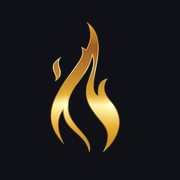
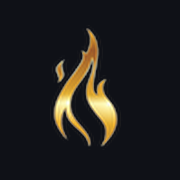
Remove barra Cliente, migra clients->clientes_base e ajusta icones/mobile
- Remove a barra de filtro Cliente (rest-bar) de todas as telas via CSS+HTML+JS kill switch
- Para de escrever na colecao Firestore 'clients' em _pushToCloud
- Remove o listener da colecao 'clients' e a migracao legacy
- Adiciona _rebuildClientsFromBD: variavel local 'clients' deriva de clientes_base
- setClientColor/setClientLogoFile agora gravam direto em clientes_base
- Regenera icones PWA com fundo solido escuro (#0f1117) — fim do tile roxo
- Mobile: traz de volta os botoes 🏢/🌙/⚙ no header em formato compacto
- Bump SW v2.3.0 pra invalidar cache

Changed region(s): [[0.2778, 0.1111, 0.6667, 0.8611]]

diff --git a/index.html b/index.html
@@ -5,6 +5,8 @@
 <meta name="viewport" content="width=device-width, initial-scale=1.0, viewport-fit=cover">
 <title>Fogo & Gestão — Sistema integrado de gestão de publicidade</title>
 <link rel="stylesheet" href="styles.css">
+<!-- Inline kill-switch para a barra global Cliente (caso CSS antigo esteja em cache) -->
+<style id="killRestBar">.rest-bar,#restBar{display:none!important;visibility:hidden!important;height:0!important;overflow:hidden!important;}</style>
 <!-- PWA -->
 <link rel="manifest" href="manifest.webmanifest">
 <meta name="theme-color" content="#0f1117">
@@ -36,6 +38,20 @@
   <script async defer src="https://connect.facebook.net/pt_BR/sdk.js"></script>
 </head>
 <body>
+<script>
+  // Remove a barra global de Cliente em runtime (caso HTML antigo venha do cache)
+  (function killRestBar(){
+    const tryKill = () => {
+      const el = document.getElementById('restBar');
+      if (el) el.remove();
+      document.querySelectorAll('.rest-bar').forEach(n => n.remove());
+    };
+    tryKill();
+    document.addEventListener('DOMContentLoaded', tryKill);
+    // observa caso algum script tente reinjetar
+    new MutationObserver(tryKill).observe(document.documentElement, {childList:true, subtree:true});
+  })();
+</script>
 
 <!-- LOGIN SCREEN -->
 <div class="login-screen" id="loginScreen">
@@ -400,19 +416,11 @@ Quando foi a última vez que você saiu sem querer voltar?"></textarea>
   </div>
 </div>
 
-<!-- RESTAURANT BAR -->
-<div class="rest-bar" id="restBar">
-  <span class="rest-bar-label">Cliente</span>
-  <div style="position:relative;">
-    <button class="rest-selector-btn" id="restSelectorBtn" onclick="toggleRestDropdown()">
-      <span id="restSelectorLabel">Todos os clientes</span>
-      <svg width="12" height="12" viewBox="0 0 12 12" fill="none" stroke="currentColor" stroke-width="1.8" stroke-linecap="round"><polyline points="2 4 6 8 10 4"/></svg>
-    </button>
-    <div class="rest-dropdown" id="restDropdown"></div>
-  </div>
-  <div class="rest-bar-actions">
-    <button class="btn-data" onclick="openAiConfig()" title="Treinar estilo da IA">🧠 IA</button>
-  </div>
+<!-- RESTAURANT BAR removida — fonte única de clientes é a aba Banco de Dados.
+     Mantemos um stub oculto pra preservar referências de scripts (#restBar, #restSelectorLabel, #restDropdown). -->
+<div class="rest-bar" id="restBar" style="display:none !important" aria-hidden="true">
+  <span id="restSelectorLabel" style="display:none"></span>
+  <div id="restDropdown" style="display:none"></div>
 </div>
 
 <!-- TOASTS -->
@@ -3074,25 +3082,8 @@ async function _pushToCloud() {
       batch.delete(_db.collection('posts').doc(id));
     });
     _deletedPostIds.clear();
-    // Clients → coleção `clients` (uma doc por cliente). Resolve limite de 1MB.
-    // Skip logos > 700KB para caber no doc.
-    Object.values(clients).forEach(c => {
-      if (!c || !c.id) return;
-      const data = { id: c.id, name: c.name || '' };
-      if (c.color) data.color = c.color;
-      if (c.logo && typeof c.logo === 'string' && c.logo.length < 700 * 1024) data.logo = c.logo;
-      ['phone','instagram','notes','segment','priority','address','website','email'].forEach(f => {
-        if (c[f] != null && c[f] !== '') data[f] = c[f];
-      });
-      data.createdAt = c.createdAt || Date.now();
-      data.updatedAt = Date.now();
-      if (c.createdBy) data.createdBy = c.createdBy;
-      batch.set(_db.collection('clients').doc(c.id), data);
-    });
-    // Apply deletions
-    _deletedClientIds.forEach(id => {
-      batch.delete(_db.collection('clients').doc(id));
-    });
+    // Clientes: fonte única é a coleção `clientes_base` (módulo Banco de Dados).
+    // Não escrevemos mais em `clients` — apenas drenamos a fila de deletados legacy.
     _deletedClientIds.clear();
     await batch.commit();
     setSyncStatus('ok');
@@ -3152,25 +3143,9 @@ async function loadFromCloud() {
       setSyncStatus('ok');
       try { renderAll(); } catch(_) {}
     }, e => { console.warn('Posts listener error:', e); setSyncStatus('err'); });
-    // ── Realtime listener: clients (coleção `clients`, uma doc por cliente) ──
-    if (_clientsUnsub) { try { _clientsUnsub(); } catch(_) {} }
-    // Migra doc legado uma vez (assíncrono — listener pega o resultado)
-    _migrateLegacyClientsDoc();
-    _clientsUnsub = _db.collection('clients').onSnapshot(snap => {
-      const cloudClients = {};
-      snap.docs.forEach(d => {
-        const data = d.data() || {};
-        const name = data.name || d.id;
-        cloudClients[name] = { ...data, id: data.id || d.id, name };
-      });
-      // Preserva logos grandes só locais (não cabem no Firestore)
-      Object.entries(clients).forEach(([k, v]) => {
-        if (cloudClients[k] && v?.logo && !cloudClients[k].logo) cloudClients[k].logo = v.logo;
-      });
-      clients = cloudClients;
-      try { localStorage.setItem('roteiros_clients', JSON.stringify(clients)); } catch(_) {}
-      try { renderRestaurantChips(); renderCalendar(); populateRestauranteSelect(document.getElementById('restaurante')?.value || ''); } catch(_) {}
-    }, e => { console.warn('Clients listener error:', e); });
+    // Coleção legacy `clients` foi descontinuada — fonte única é `clientes_base`.
+    // O hook onClientesBaseChanged reconstrói a variável local `clients` a partir do BD.
+    if (_clientsUnsub) { try { _clientsUnsub(); _clientsUnsub = null; } catch(_) {} }
   } catch(e) { console.warn('Firestore load failed, using localStorage:', e); setSyncStatus('err'); }
 }
 
@@ -3200,19 +3175,45 @@ function getClientLogo(name) {
   // Fallback: sistema legado
   return clients[name]?.logo || null;
 }
-function setClientColor(name, color) {
-  if (!clients[name]) clients[name] = {};
-  clients[name].color = color;
-  saveClients(); renderRestaurantChips(); renderCalendar();
+// Helper: encontra o doc do cliente em clientes_base pelo nome
+function _findBdClienteByName(name) {
+  try {
+    if (typeof _bdClientes === 'undefined' || !Array.isArray(_bdClientes)) return null;
+    return _bdClientes.find(c => (c.nome||c.razaoSocial) === name) || null;
+  } catch(_) { return null; }
 }
+
+function setClientColor(name, color) {
+  // Atualização otimista local
+  if (!clients[name]) clients[name] = { name };
+  clients[name].color = color;
+  // Persiste em clientes_base (fonte única)
+  const bd = _findBdClienteByName(name);
+  if (bd && typeof _db !== 'undefined') {
+    _db.collection('clientes_base').doc(bd.id)
+      .update({ cor: color, updatedAt: Date.now() })
+      .catch(e => console.warn('cor update failed:', e));
+  }
+  try { renderRestaurantChips(); renderCalendar(); } catch(_) {}
+}
+
 function setClientLogoFile(name, ev) {
   const file = ev.target.files[0]; if (!file) return;
   const reader = new FileReader();
   reader.onload = e => {
-    if (!clients[name]) clients[name] = {};
-    clients[name].logo = e.target.result;
-    saveClients(); renderRestaurantChips();
-    showToast('success','🖼','Logo salva!');
+    const dataUrl = e.target.result;
+    if (!clients[name]) clients[name] = { name };
+    clients[name].logo = dataUrl;
+    const bd = _findBdClienteByName(name);
+    if (bd && typeof _db !== 'undefined') {
+      _db.collection('clientes_base').doc(bd.id)
+        .update({ logoUrl: dataUrl, updatedAt: Date.now() })
+        .then(() => showToast('success','🖼','Logo salva!'))
+        .catch(err => { console.warn('logo update failed:', err); showToast('warn','⚠','Logo salva localmente; falhou no BD.'); });
+    } else {
+      showToast('success','🖼','Logo salva localmente!');
+    }
+    try { renderRestaurantChips(); } catch(_) {}
   };
   reader.readAsDataURL(file);
   ev.target.value = '';
@@ -3280,9 +3281,41 @@ function getCanonicalClientNames() {
   return [...new Set(fromBD)].sort();
 }
 
+// Reconstrói a variável local `clients` a partir de `_bdClientes` (fonte única de verdade).
+// Mantém compatibilidade com código legacy que lê clients[name].color / .logo / etc.
+function _rebuildClientsFromBD() {
+  try {
+    if (typeof _bdClientes === 'undefined' || !Array.isArray(_bdClientes)) return;
+    const next = {};
+    _bdClientes.forEach(c => {
+      const name = c.nome || c.razaoSocial; if (!name) return;
+      next[name] = {
+        id: c.id,
+        name,
+        color: c.cor || c.color || null,
+        logo: c.logoUrl || c.fotoUrl || c.logo || null,
+        instagram: c.instagram || null,
+        phone: c.telefone || c.phone || null,
+        email: c.email || null,
+        address: c.endereco || c.address || null,
+        website: c.site || c.website || null,
+        notes: c.observacoes || c.notes || null,
+        segment: c.segmento || c.segment || null,
+        priority: c.prioridade || c.priority || null,
+        createdAt: c.createdAt || Date.now(),
+        updatedAt: c.updatedAt || Date.now(),
+      };
+    });
+    clients = next;
+    try { localStorage.setItem('roteiros_clients', JSON.stringify(clients)); } catch(_) {}
+  } catch(e) { console.warn('rebuildClientsFromBD failed:', e); }
+}
+
 // Hook chamado pelo listener da Base de Dados quando _bdClientes atualiza.
 // Re-renderiza tudo que mostra lista de cliente em qualquer aba ativa.
 function onClientesBaseChanged() {
+  // 0) Reconstrói o objeto local `clients` a partir do BD (fonte única)
+  _rebuildClientsFromBD();
   // 1) Dropdown de restaurante no calendário
   try { if (typeof populateRestauranteSelect === 'function') populateRestauranteSelect(); } catch(e) {}
   // 2) Aba de Projetos: filtros + tarefa aberta + view "Por Cliente"

diff --git a/styles.css b/styles.css
@@ -2322,8 +2322,8 @@ input[type="file"]:hover { border-color: var(--accent); background: rgba(124,58,
   .mtr-funnel-arrow{transform:rotate(90deg);}
 }
 
-/* Esconde a barra global de cliente/IA quando estamos em Métricas (essa aba tem seleção própria) */
-body[data-active-tab="metricas"] .rest-bar { display:none; }
+/* Barra global de cliente removida — fonte única é a Base de Dados (aba Banco de Dados) */
+.rest-bar { display:none !important; }
 
 /* Customize sidebar */
 .mtr-cust-btn { padding:8px 14px;background:var(--card);border:1px solid var(--border);color:var(--text1);border-radius:20px;font-size:13px;font-weight:600;cursor:pointer;display:inline-flex;align-items:center;gap:6px;transition:all .15s;font-family:inherit; }
@@ -5539,11 +5539,19 @@ body.mtr-shared-view #tab-metricas { padding-top:24px; }
   .user-chip { align-self:auto; padding:3px 8px 3px 3px; font-size:11.5px; flex-shrink:1; min-width:0; max-width:55%; }
   .user-chip .user-name { overflow:hidden; text-overflow:ellipsis; white-space:nowrap; }
   .sync-dot { width:8px; height:8px; flex-shrink:0; }
-  /* Esconde botões secundários do header (theme picker, uazapi status, presença):
-     no mobile o espaço fica pra tabs + avatar; configs ficam disponíveis no menu de perfil */
+  /* Botões secundários do header no mobile: visíveis mas compactos.
+     Mantém acesso a 🏢 Base de Dados, 🌙 Tema e ⚙ Configurações. */
   .app-header .theme-picker-btn,
-  .app-header .app-uazapi-status,
+  .app-header .app-uazapi-status {
+    width:30px !important; height:30px !important;
+    flex-shrink:0; padding:0 !important;
+  }
+  .app-header .theme-picker-btn svg,
+  .app-header .app-uazapi-status svg { width:14px; height:14px; }
   .app-header .app-presence { display:none !important; }
+  /* User chip cede espaço pros ícones */
+  .user-chip { max-width:38% !important; }
+  .user-chip .user-name { display:none; } /* mobile: só avatar — espaço pros ícones */
 
   /* CLIENTE BAR (sticky com dropdown) */
   .restaurant-sticky { padding:8px 10px; gap:8px; }
@@ -5607,8 +5615,12 @@ body.mtr-shared-view #tab-metricas { padding-top:24px; }
   .main-tabs { gap:1px; }
   .pj-dash-greet { font-size:16px !important; }
   .pj-dash-kpi-val { font-size:22px !important; }
-  /* Chip volta a ter limite pra dividir espaço com tabs */
-  .user-chip { max-width:48%; font-size:12px; }
+  /* Chip só com avatar (sem nome) pra liberar espaço pros ícones */
+  .user-chip { max-width:none; font-size:12px; padding:3px; }
+  .user-chip .user-name { display:none; }
+  /* Ícones do header ainda menores em telas bem estreitas */
+  .app-header .theme-picker-btn,
+  .app-header .app-uazapi-status { width:28px !important; height:28px !important; }
 }
 
 /* Fine-tuning pra telas bem pequenas (iPhone SE / Android entry) */

diff --git a/sw.js b/sw.js
@@ -2,7 +2,7 @@
 // V2: cache app-shell para modo offline. Mutations Firestore são tratadas
 // pela própria persistência IndexedDB do Firestore (queue automática).
 // Bump cache version cada vez que mudar lógica:
-const SW_VERSION = 'fg-v2.0.0';
+const SW_VERSION = 'fg-v2.3.0';
 const SHELL_CACHE = `fg-shell-${SW_VERSION}`;
 const RUNTIME_CACHE = `fg-runtime-${SW_VERSION}`;
 
